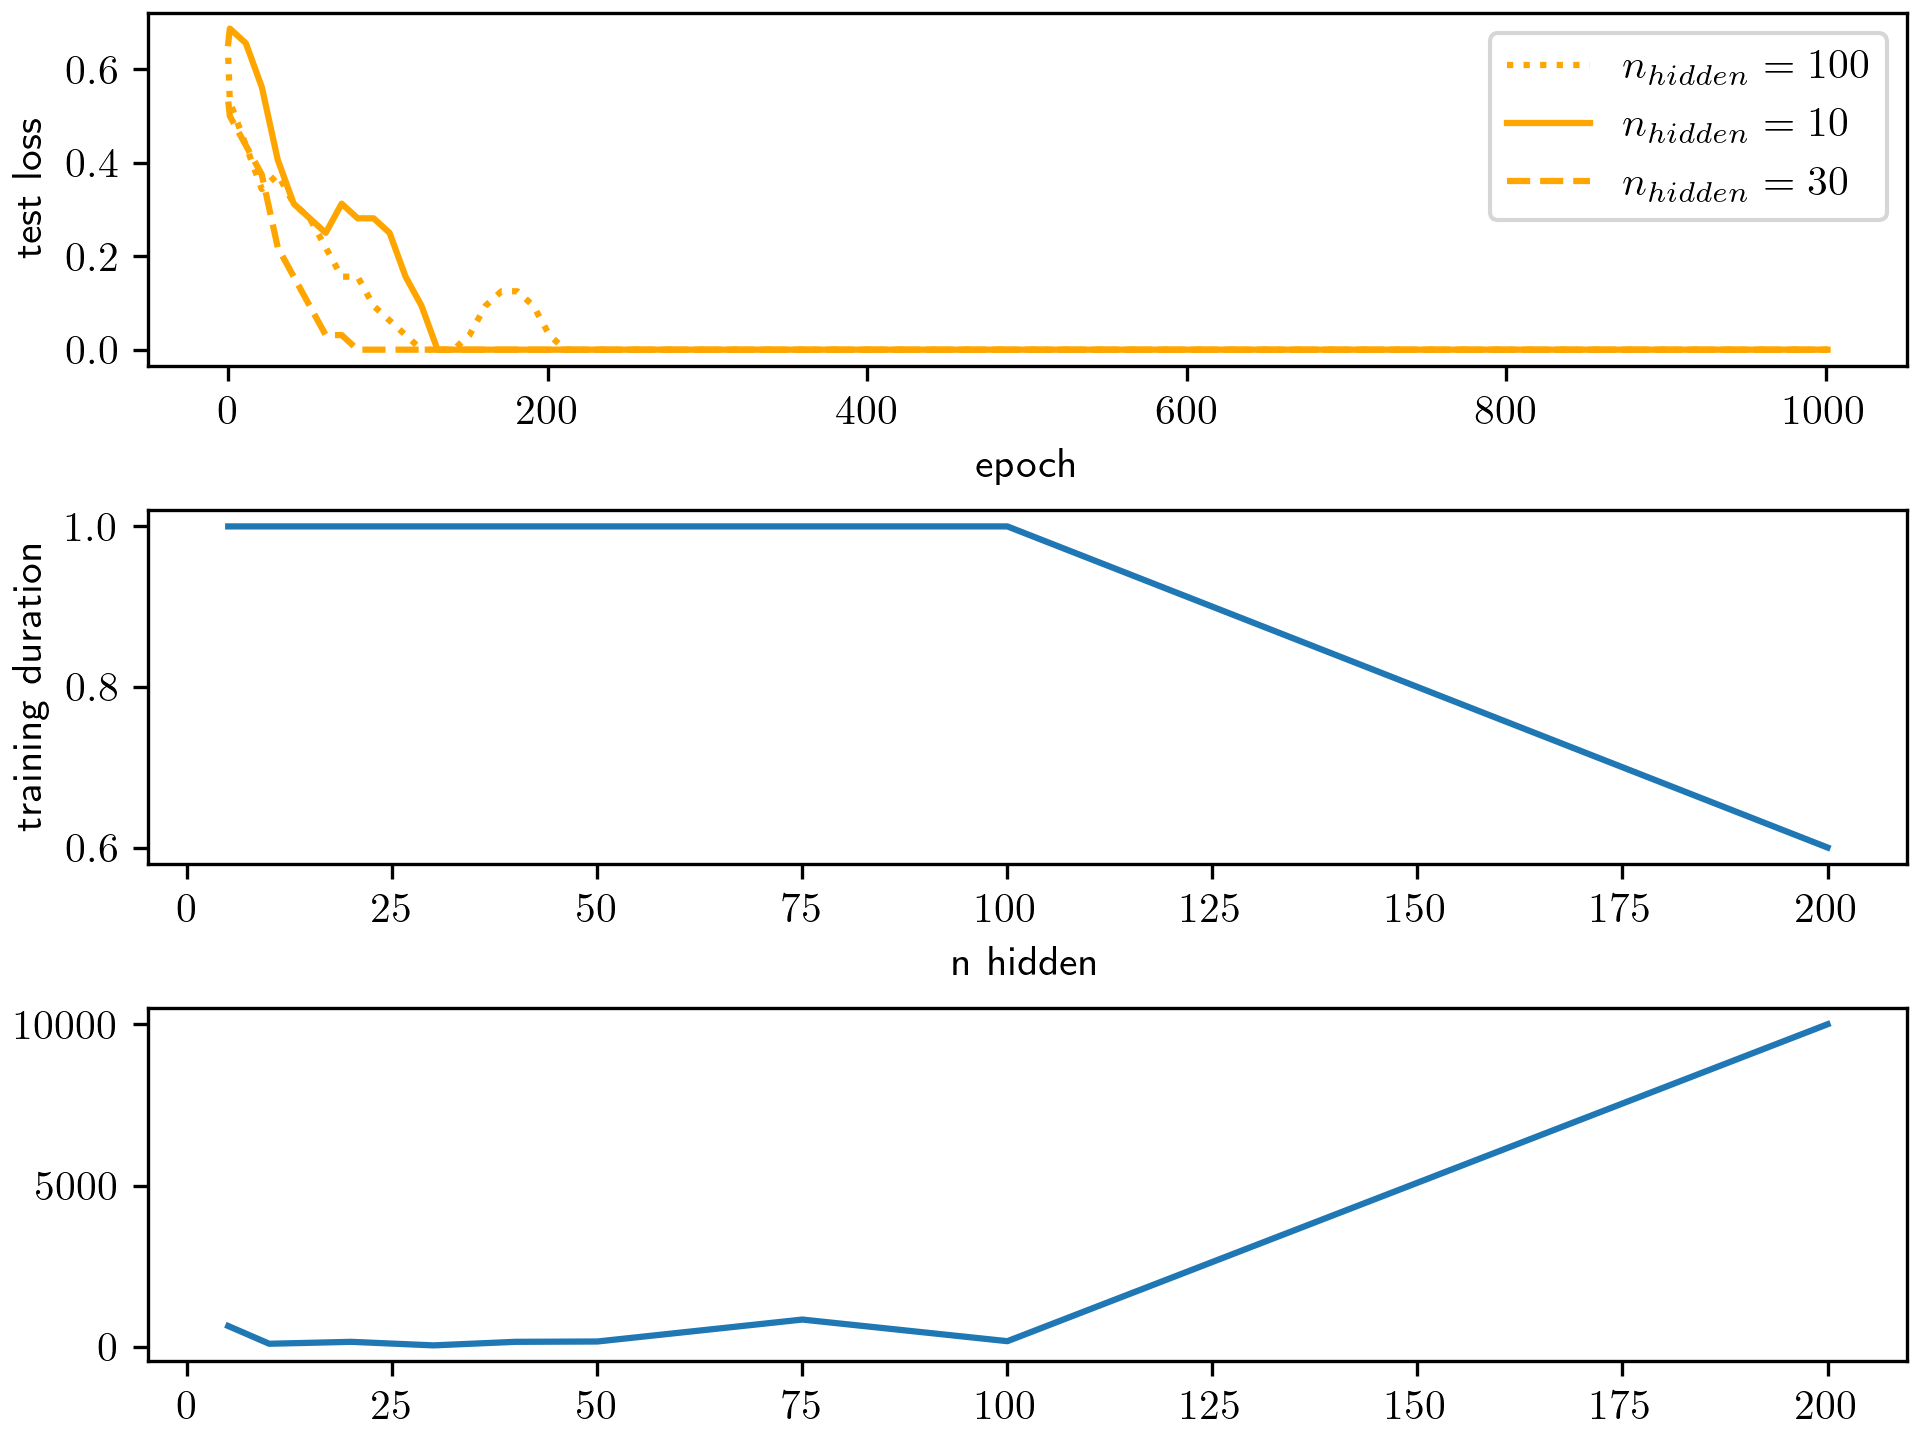
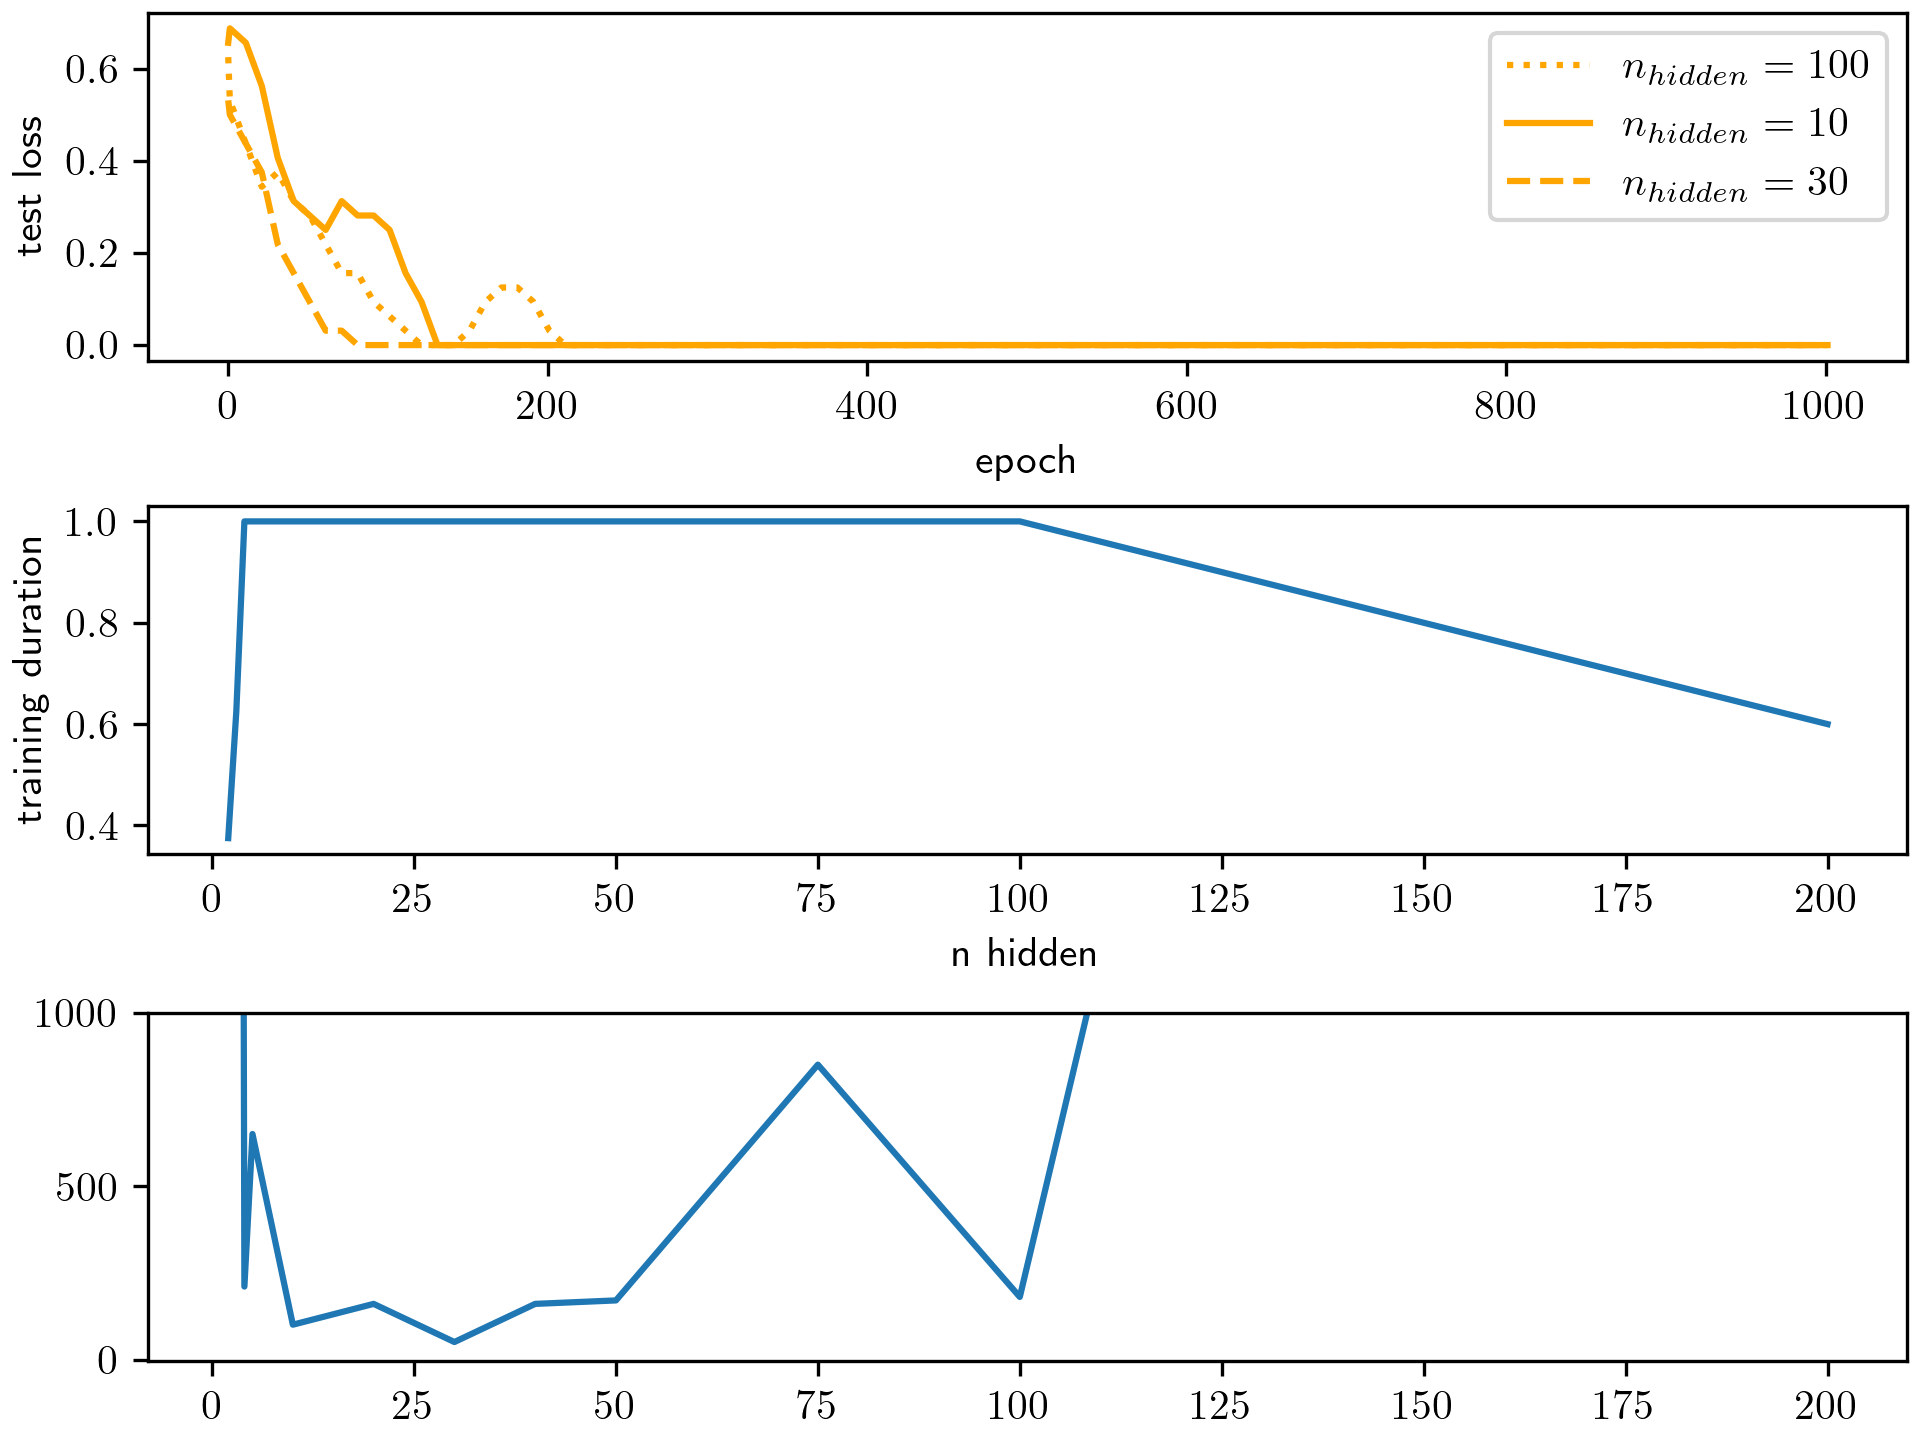
add new figure

diff --git a/pyramidal_microcircuit/scripts/fig_4.py b/pyramidal_microcircuit/scripts/fig_4.py
@@ -59,7 +59,7 @@ if __name__ == "__main__":
 
     ax1.plot(*zip(*sorted(final_performance)))
     ax2.plot(*zip(*sorted(training_duration)))
-
+    ax2.set_ylim(-5, 1000)
     ax0.set_xlabel("epoch")
     ax0.set_ylabel("test loss")
     ax1.set_ylabel("training duration")
